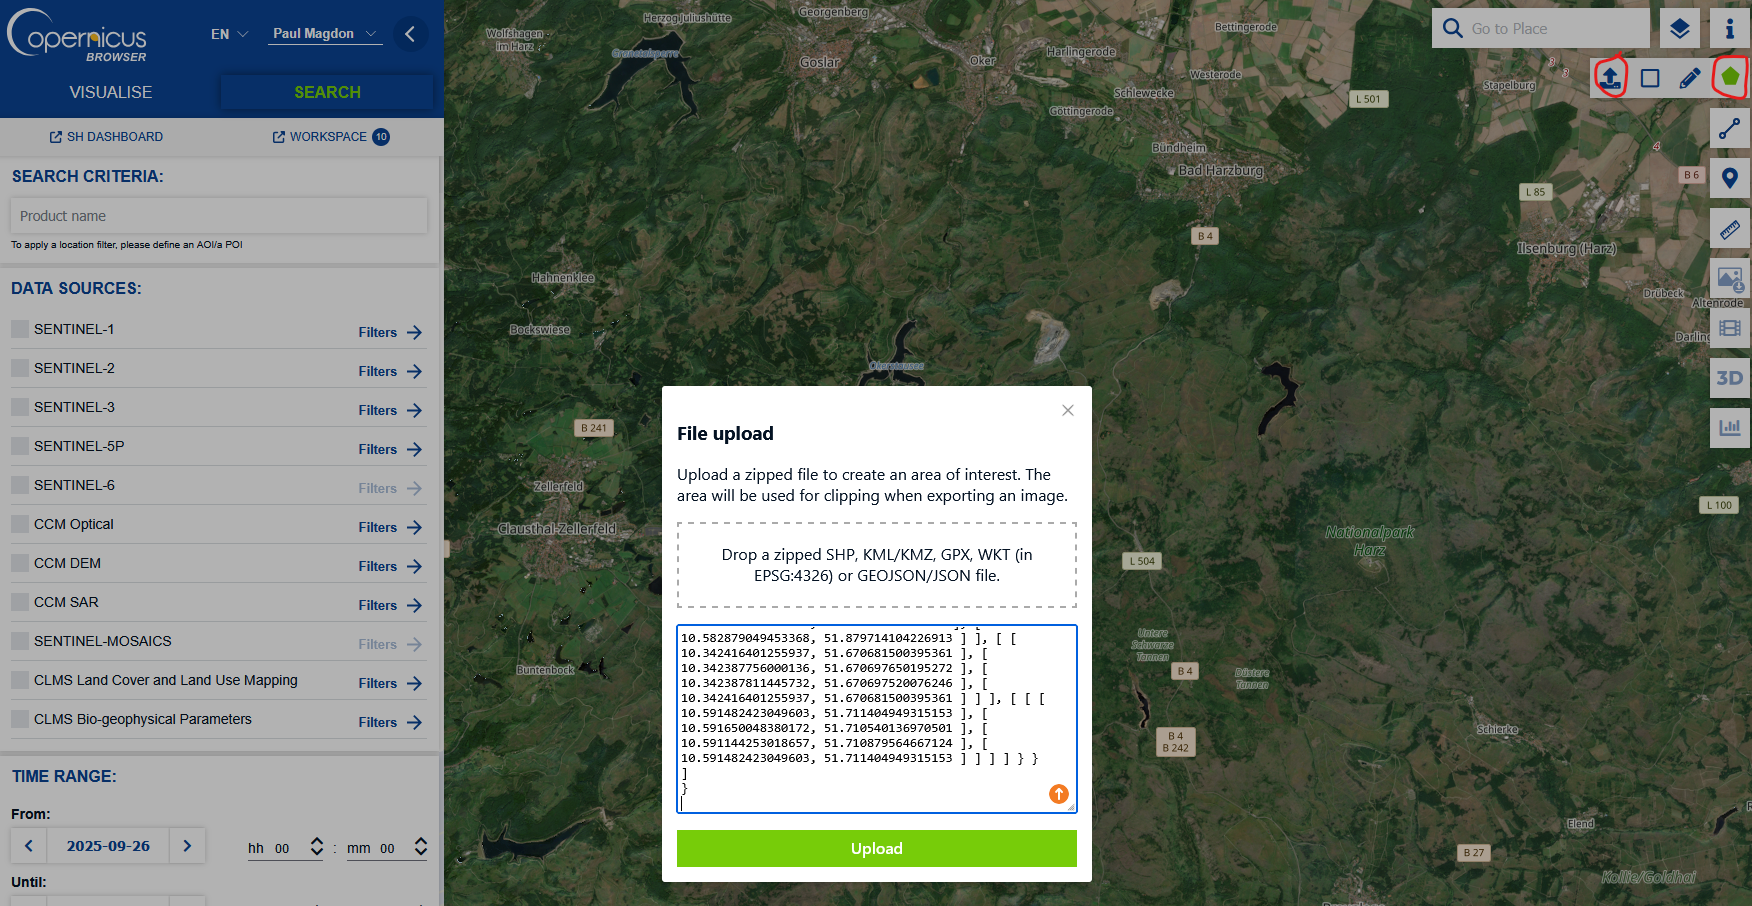
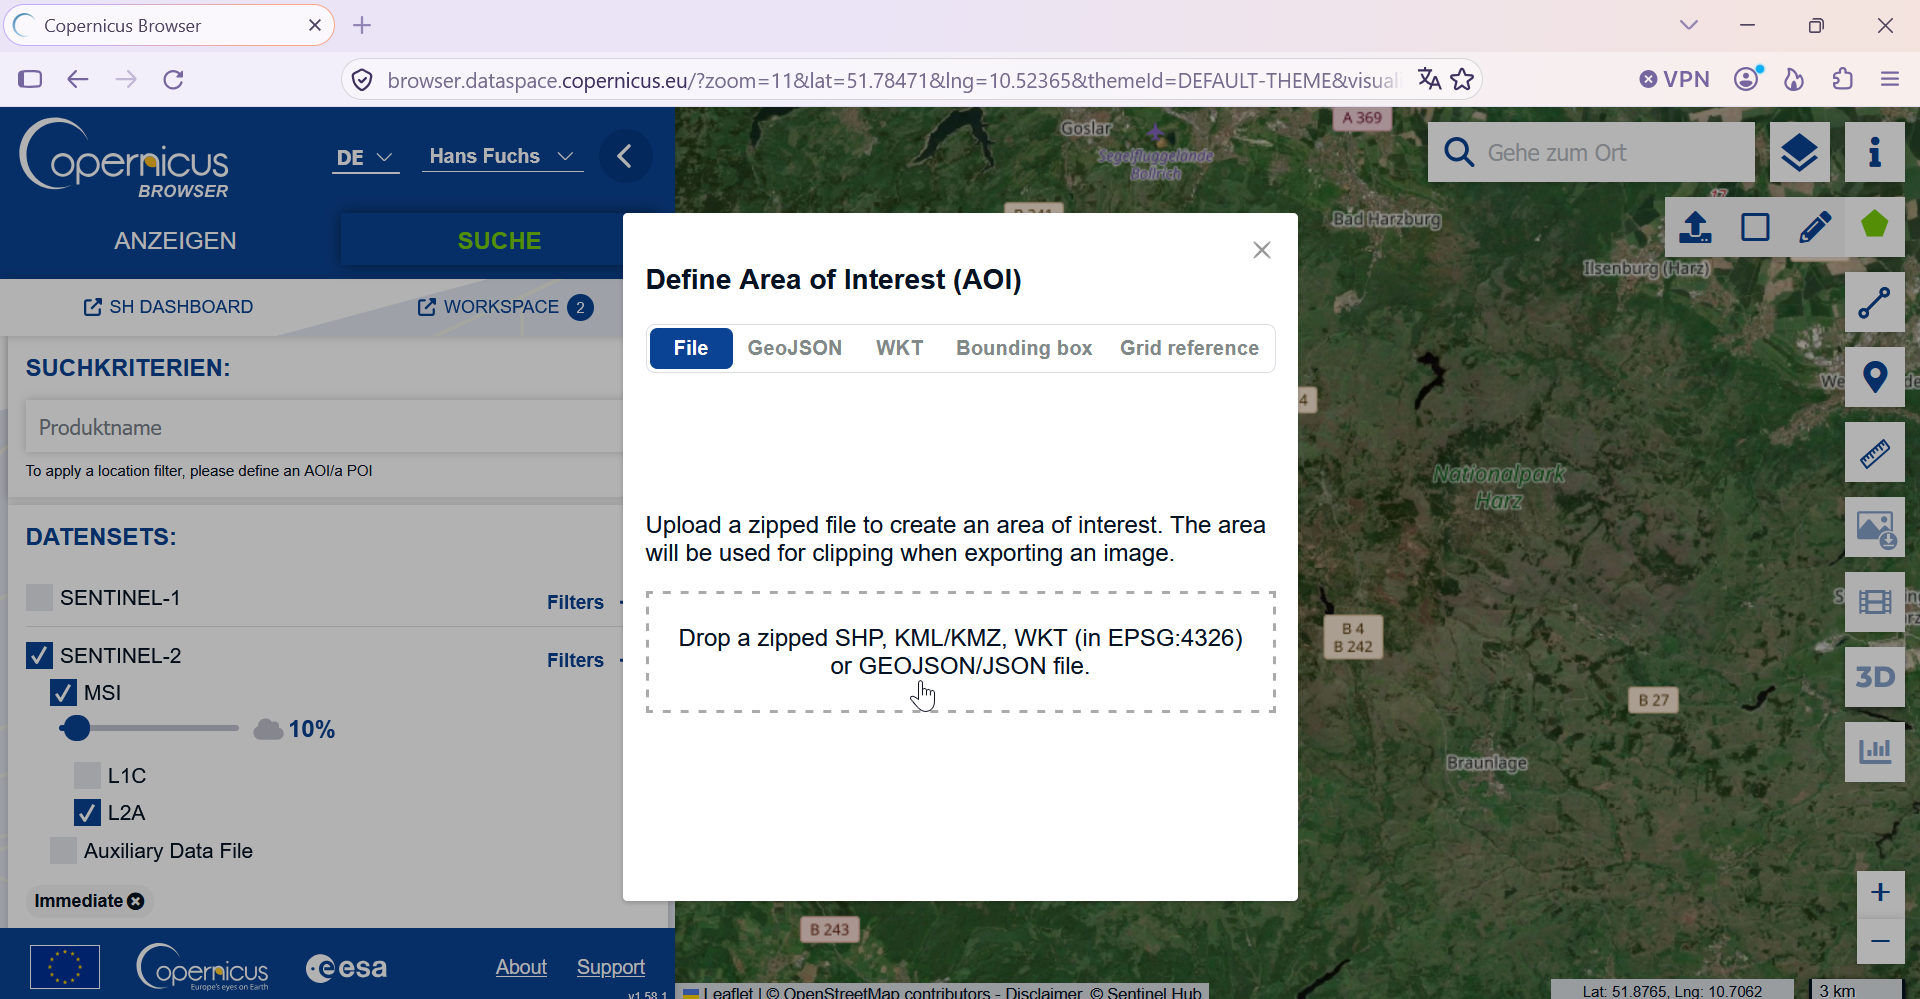
update figures uebung04

diff --git a/_book/uebung04.html b/_book/uebung04.html
@@ -290,22 +290,22 @@ Lizenz: Creative Commons BY-NC-SA 4.0 https://creativecommons.org/licenses/by-nc
 </section>
 <section id="aufgabe-01-recherche-und-download-eines-aktuellen-sentinel-2-satellitenbildes" class="level2" data-number="4.3">
 <h2 data-number="4.3" class="anchored" data-anchor-id="aufgabe-01-recherche-und-download-eines-aktuellen-sentinel-2-satellitenbildes"><span class="header-section-number">4.3</span> Aufgabe 01: Recherche und Download eines aktuellen Sentinel-2 Satellitenbildes</h2>
-<p>Die Europäische Raumfahrt Agentur (ESA) stellt das gesamte Archiv der Copernicus Daten kostenfrei als offenen Datensatz zur Verfügung. Zur Suche und für den Download solcher Daten wird das online Datenportal <a href="https://dataspace.copernicus.eu/" class="uri">https://dataspace.copernicus.eu/</a> betrieben. Für die Nutzung des Portals ist eine einmalige kostenfreie Registrierung notwendig um einen Nutzernamen und ein Passwort zu erhalten.</p>
-<p>Nach der erfolgreichen Registrierung kann ein Login auf der Homepage erfolgen. Für die Suche nach Daten (Explore Data) wird der Copernicus-Browser unter folgender URL angeboten:</p>
+<p>Die Europäische Raumfahrt Agentur (ESA) stellt das gesamte Archiv der Copernicus Daten kostenfrei als offenen Datensatz zur Verfügung. Zur Suche und für den Download solcher Daten wird das online Datenportal <a href="https://dataspace.copernicus.eu/" class="uri">https://dataspace.copernicus.eu/</a> betrieben. Für die Nutzung des Portals ist eine einmalige kostenfreie Registrierung notwendig, um einen Nutzernamen und ein Passwort zu erhalten.</p>
+<p>Nach der erfolgreichen Registrierung kann ein Login auf der Homepage erfolgen. Für die Suche nach Daten (“Explore Data”) wird der Copernicus-Browser unter folgender URL angeboten:</p>
 <p><a href="https://browser.dataspace.copernicus.eu" class="uri">https://browser.dataspace.copernicus.eu</a></p>
-<p>Der Browser bietet umfangreiche Möglichkeiten nach Geodatenprodukten zu suchen.</p>
+<p>Der Browser bietet umfangreiche Möglichkeiten, um nach Geodatenprodukten zu suchen. Ändern Sie die englische Spracheinstellung im Copernicus Browser indem sie oben links auf EN klicken und Deutsch aus der Liste auswählen.</p>
 <p><strong>Festlegen der Area of Interest (AOI)</strong></p>
-<p>Dazu können die Polygone od Multipolygone des Untersuchungsgebietes verwendet werden. Als Datenformat für die Definition der Geometrie akzeptiert der Copernicus-Browser das GeoJSON Format im Koordinatenreferenzsystem EPSG:4326 mit geographischen Längen- und Breitengraden. GeoJSON ist ein text-basiertes Format zum speichern von Vektordaten (siehe auch <a href="https://de.wikipedia.org/wiki/GeoJSON" class="uri">https://de.wikipedia.org/wiki/GeoJSON</a>). Für die Übung soll die Außengrenze des NP-Harz genutzt werden. Das entsprechende GeoJSON kann hier heruntergeladen werden:</p>
+<p>Hierfür können Polygone oder Multipolygone des Untersuchungsgebietes verwendet werden. Als Datenformat für die Definition der Geometrie akzeptiert der Copernicus-Browser das GeoJSON Format im Koordinatenreferenzsystem EPSG:4326 mit geographischen Längen- und Breitengraden. GeoJSON ist ein textbasiertes Format zum Speichern von Vektordaten (s. auch <a href="https://de.wikipedia.org/wiki/GeoJSON" class="uri">https://de.wikipedia.org/wiki/GeoJSON</a>). Für die Übung soll das Grenzpolygon des NP-Harz genutzt werden. Das entsprechende GeoJSON kann hier heruntergeladen werden:</p>
 <p><a href="https://cloud.hawk.de/index.php/s/2Zg8raN2qsHMyZf" class="uri">https://cloud.hawk.de/index.php/s/2Zg8raN2qsHMyZf</a></p>
-<p>Speichern sie diese Datei in ihrem Projektordner im Unterordner <em>“daten”</em>. Diese Datei kann sowohl mit QGIS als auch mit einem Texteditor (z.B. Editor, WordPad, Notepad++) geöffnet werden.</p>
-<p>Im Copernicus-Browser kann nun eine Area of Interest (AOI) mit diesen Informationen angelegt werden. Dazu rechts oben auf das Polygonsymbol klicken und den Upload Icon auswählen. Mit Drag &amp; Drop die GeoJSON Datei direkt von Dateimanager in den Browserbereich “Drop a file …” ziehen.</p>
+<p>Speichern Sie die Datei in Ihrem Projektordner im Unterordner <em>“daten”</em>. Sie kann sowohl mit QGIS als auch mit einem Texteditor (z.B. Editor, WordPad, Notepad++) geöffnet werden.</p>
+<p>Im Copernicus-Browser kann nun eine Area of Interest (AOI) angelegt werden. Dazu rechts oben auf das Polygonsymbol <img src="images/LE04_cb_poly_icon.png" class="img-fluid"> klicken und das Upload Icon <img src="images/LE04_cb_upload_file.png" class="img-fluid"> auswählen. Mit Drag &amp; Drop die GeoJSON Datei direkt von Dateimanager in den Browserbereich “Drop a file …” ziehen.</p>
 <div class="quarto-figure quarto-figure-center">
 <figure class="figure">
 <p><img src="images/LE04_dataspace_area_definition.png" class="img-fluid figure-img" width="719"></p>
-<figcaption>Upload der Gebietsgrenzen als GeoJSON in den Copernicus-Browser.</figcaption>
+<figcaption>Upload des Gebietsgrenzenpolygons als GeoJSON in den Copernicus-Browser.</figcaption>
 </figure>
 </div>
-<p>Nach dem erfolgreichen Upload werden die Außengrenzen des Nationalparks Harz im Browser angezeigt.</p>
+<p>Nach dem erfolgreichen Upload wird die Außengrenze des Nationalparks Harz im Browser angezeigt.</p>
 <div class="callout callout-style-default callout-caution callout-titled">
 <div class="callout-header d-flex align-content-center">
 <div class="callout-icon-container">
@@ -316,11 +316,15 @@ Vorsicht
 </div>
 </div>
 <div class="callout-body-container callout-body">
-<p>Wenn die Dateigröße der GeoJON Datei 10MB überschreitet, wird die Datei nicht akzeptiert. In diesem Fall können 1. die Geometrien vereinfacht werden mit <code>Vektor</code> -&gt; <code>Geometrie Tools</code> -&gt; <code>Vereinfachen</code> oder 2. eine Bounding Box berechnet werden mit <code>Verarbeitung</code> -&gt; <code>Werkzeugkiste</code> -&gt; <code>Layerwerkzeuge</code> -&gt; <code>Layerausdehnung extrahieren</code></p>
+<p>Wenn die Dateigröße der GeoJON Datei 10MB überschreitet, wird die Datei nicht akzeptiert. In diesem Fall können</p>
+<ol type="1">
+<li><p>die Geometrien vereinfacht werden mit <code>Vektor</code> -&gt; <code>Geometrie Tools</code> -&gt; <code>Vereinfachen</code> oder</p></li>
+<li><p>eine Bounding Box berechnet werden mit <code>Verarbeitung</code> -&gt; <code>Werkzeugkiste</code> -&gt; <code>Layerwerkzeuge</code> -&gt; <code>Layerausdehnung extrahieren</code></p></li>
+</ol>
 </div>
 </div>
 <p><strong>Auswahl und Download der gewünschten Produkte</strong></p>
-<p>Auf der linken Seite des Browsers können die gesuchten Produkte spezifiziert werden. Ändern Sie eventuell die Spracheinstellung im Copernicus Browser oben links vion EN auf DE. In der Lerneinheit arbeiten wir mit Produkten des Sentinel-2 Systems. Zusätzlich können Filter gesetzt werden.</p>
+<p>Auf der linken Seite des Browsers können die gesuchten Produkte spezifiziert werden. In der Lerneinheit arbeiten wir mit Produkten des Sentinel-2 Satelliten. Zusätzlich können Filter gesetzt werden.</p>
 <ul>
 <li>Klicken Sie auf “Suche”</li>
 </ul>
@@ -334,7 +338,7 @@ Vorsicht
 <ul>
 <li>Max. Cloud Cover = <strong>10%</strong></li>
 </ul>
-<p>Für die Übung suchen wir nach einer Aufnahme aus dem Juni 2025. Als Zeitraum, in welchem Bilder gesucht werden, setzen wir folgende Werte:</p>
+<p>Für die Übung suchen wir nach einer Aufnahme aus dem Juni 2025. Als Zeitraum, in welchem Bilder gesucht werden. Nach unten scrollen und im Abschnitt “Zeitraum:” setzen wir folgende Werte:</p>
 <ul>
 <li><p>Von: <em>2025-06-01</em></p></li>
 <li><p>Bis: <em>2025-06-30</em></p></li>
@@ -400,7 +404,7 @@ Vorsicht
 </div>
 <p>Fügen Sie die Bänder <strong>B02, B03, B04 und B08</strong> mit einer räumlichen Auflösung von 10m zu ihrem QGIS-Projekt hinzu.</p>
 <div style="border: 3px solid #ff8a0b; background-color: #ffffff; padding: 8px;">
-<p><strong>Ordnen sie den folgenden Bandnummern des Sentinel-2 MSI eine der Beschreibungen der Spektralbereiche zu: </strong>’Coastal aerosol, Blue, Green, Red, Red edge1, Red edge2, Red edge3, Narrow NIR, NIR, Water vapour, SWIR1, SWIR 2`**</p>
+<p>**Ordnen sie den folgenden Bandnummern des Sentinel-2 MSI eine der Beschreibungen der Spektralbereiche zu: <code>Coastal aerosol, Blue, Green, Red, Red edge1, Red edge2, Red edge3, Narrow NIR, NIR, Water vapour, SWIR1, SWIR 2</code></p>
 <p>B02 =</p>
 <p>B03 =</p>
 <p>B04 =</p>
@@ -424,28 +428,66 @@ Vorsicht
 </section>
 <section id="sec-zuschneiden" class="level2" data-number="4.6">
 <h2 data-number="4.6" class="anchored" data-anchor-id="sec-zuschneiden"><span class="header-section-number">4.6</span> Aufgabe 04: Zuschneiden des Satellitenbildmosaiks</h2>
-<p>Die beide originalen S2-Kacheln decken ca. 100 x 100km ab. Der Bereich ist also deutlich größer als der gesamte Harz. Um diesen Bereich zu verkleiner sollen die Satellitenbilder auf den Nationalpark zugeschnitten werden. Um die Grenzen trotzdem gut darstellen zu können, soll ein Puffer von 1000 m um die Außengrenzen des Parks gelegt werden.</p>
+<p>Die beiden originalen S2-Kacheln decken jeweils ca. 100 x 100km ab. Der Bereich ist also deutlich größer als der gesamte Harz. Um diesen Bereich zu verkleinern sollen die Satellitenbilder auf den Nationalpark zugeschnitten werden. Um die Grenzbereiche trotzdem gut darstellen zu können, soll ein Puffer mit der Breite von 1000m um die Außengrenze des Parks gelegt werden.</p>
 <p><strong>Außengrenze Puffern</strong></p>
-<p>Speichern Sie das GeoJSON der Nationalparkgrenze als Geopackage in Unterordner “daten” ab. Achten Sie darauf, dass das Koordinatenbezugssystem auf das metrische UTM Koordinatenreferenzsystem EPSG:25832 gestellt ist. Puffern Sie anschließend außen mit einer Breite von 1000 m.</p>
+<p>Speichern Sie das GeoJSON der Nationalparkgrenze als <strong>Geopackage</strong>, transformiert in ein metrisches UTM-Koordinatenreferenzsystem, im Unterordner “daten” ab. Achten Sie darauf, dass das Koordinatenbezugssystem auf das metrische UTM Koordinatenreferenzsystem <code>EPSG:25832</code> gestellt ist. Puffern Sie anschließend mit einer Breite von 1000 m.</p>
 <p><strong>Bild zuschneiden und maskieren</strong></p>
 <p>Zum Maskieren und zuschneiden nutzen Sie anschließend die Funktion:</p>
 <div style="border: 2px solid #afca0b; background-color: #fafafa; padding: 8px;">
 <p><code>Raster</code> →<code>Extraktion</code> → <code>Raster auf Layermaske zuschneiden</code></p>
 </div>
-<p>Speichern Sie das neue Raster unter dem Namen NP_Harz_2025_06_12 als *tif im Unterordner “daten” ab und laden Sie die Satellitenbildkarte als CIR-Falschfarbenbild in QGIS. Überlagern Sie das Bild mit den originalen Außengrenzen des Nationalparks.</p>
+<p>Speichern Sie das neue Raster unter dem Namen <em>NP_Harz_2025_06_12</em> als *tif im Unterordner “daten” ab und laden Sie die Satellitenbildkarte als CIR-Falschfarbenbild in QGIS. Überlagern Sie das Bild mit der Außengrenze des Nationalparks.</p>
 </section>
 <section id="aufgabe-05-import-von-sentinel-satellitenbilder-mit-der-enmap-box" class="level2" data-number="4.7">
 <h2 data-number="4.7" class="anchored" data-anchor-id="aufgabe-05-import-von-sentinel-satellitenbilder-mit-der-enmap-box"><span class="header-section-number">4.7</span> Aufgabe 05: Import von Sentinel Satellitenbilder mit der EnMAP-Box</h2>
 <p>Die EnMap-Box enthält die praktische Funktion</p>
 <p><code>Verarbeitung</code> -&gt; <code>Werkzeugkiste</code> -&gt; <code>Import data</code> -&gt; <code>Ìmport Sentinel-2 L2A product</code>,</p>
-<p>die Aufgabe 02 <a href="#sec-import-S2" class="quarto-xref"><span>Kapitel 4.4</span></a> vereinfacht. Es braucht nur die ZIP-Datei mit den originalen L2A-Daten ausgepackt werden. Im <code>.SAFE</code> Ordner befindet sich die Metadaten-Datei <em>MTD_MSIL2A.xml</em>, die ausgewählt oder direkt mit drag &amp; drop vom Dateimanager auf das <code>Import Sentinel-2 L2A product</code> Panel gezogen werden kann. Aus einer Liste lassen sich dann verschiedene Bänder auswählen, die in einem Mehrkanalbild zusammengeführt werden.</p>
+<p>die Aufgabe 02 <a href="#sec-import-S2" class="quarto-xref"><span>Kapitel 4.4</span></a> vereinfacht. Es braucht nur die ZIP-Datei mit den originalen L2A-Daten entpackt werden. Im <code>.SAFE</code> Ordner befindet sich die Metadaten-Datei <code>*MTD_MSIL2A.xml*</code>, die ausgewählt oder direkt mit drag &amp; drop vom Dateimanager auf das <code>Import Sentinel-2 L2A product</code> Panel gezogen werden kann. Aus einer Liste lassen sich dann verschiedene Bänder auswählen, die in einem Mehrkanalbild zusammengeführt werden.</p>
 <ul>
 <li><p>Wählen Sie aus der <strong>Band list</strong> die Bänder B2, B3, B4, B8.</p></li>
-<li><p>Als <strong>Output raster layer</strong> definieren Sie zum Speichern eine virtuelle VRT Datei.</p></li>
+<li><p>Als <strong>Output raster layer</strong> definieren Sie eine Datei zum Speichern als im Format VRT.</p></li>
+</ul>
+<div id="fig-import_s2" class="quarto-layout-panel">
+<figure class="quarto-float quarto-float-fig figure">
+<div aria-describedby="fig-import_s2-caption-0ceaefa1-69ba-4598-a22c-09a6ac19f8ca">
+<div class="quarto-layout-row">
+<div class="quarto-layout-cell-subref quarto-layout-cell" data-ref-parent="fig-import_s2" style="flex-basis: 55.6%;justify-content: flex-start;">
+<div id="fig-a" class="quarto-float quarto-figure quarto-figure-center anchored">
+<figure class="quarto-float quarto-subfloat-fig figure">
+<div aria-describedby="fig-a-caption-0ceaefa1-69ba-4598-a22c-09a6ac19f8ca">
+<img src="images/LE04_eb_import_s2a.png" id="fig-a" class="img-fluid figure-img" style="width:100.0%" data-ref-parent="fig-import_s2">
+</div>
+<figcaption class="quarto-float-caption-bottom quarto-subfloat-caption quarto-subfloat-fig" id="fig-a-caption-0ceaefa1-69ba-4598-a22c-09a6ac19f8ca">
+(a)
+</figcaption>
+</figure>
+</div>
+</div>
+<div class="quarto-layout-cell-subref quarto-layout-cell" data-ref-parent="fig-import_s2" style="flex-basis: 44.4%;justify-content: flex-start;">
+<div id="fig-b" class="quarto-float quarto-figure quarto-figure-center anchored">
+<figure class="quarto-float quarto-subfloat-fig figure">
+<div aria-describedby="fig-b-caption-0ceaefa1-69ba-4598-a22c-09a6ac19f8ca">
+<img src="images/LE04_eb_import_s2b.png" id="fig-b" class="img-fluid figure-img" style="width:80.0%" data-ref-parent="fig-import_s2">
+</div>
+<figcaption class="quarto-float-caption-bottom quarto-subfloat-caption quarto-subfloat-fig" id="fig-b-caption-0ceaefa1-69ba-4598-a22c-09a6ac19f8ca">
+(b)
+</figcaption>
+</figure>
+</div>
+</div>
+</div>
+</div>
+<figcaption class="quarto-float-caption-bottom quarto-float-caption quarto-float-fig" id="fig-import_s2-caption-0ceaefa1-69ba-4598-a22c-09a6ac19f8ca">
+Abbildung&nbsp;4.1: Import von Sentinel-2 Daten in der EnMAP-Box
+</figcaption>
+</figure>
+</div>
+<ul>
+<li>Als <strong>Output raster layer</strong> definieren Sie eine Datei zum Speichern als im Format <strong>VRT</strong>.</li>
 </ul>
 <p>Die ausgewählten Bänder werden mit der kleinsten Pixelgröße der ausgewählten Bänder resampled. Wellenlängenbereiche und Bandnamen werden als Metadaten gleich automatisch in die Ausgabe-Rasterdatei geschrieben.</p>
 <ul>
-<li>Stellen Sie das virtuelle Mehrkanalbild als CIR Falschfarbenbild dar.</li>
+<li>Sehen Sie sich das virtuelle Mehrkanalbild als CIR-Falschfarbendarstellung an.</li>
 </ul>
 </section>
 <section id="aufgabe-06-projekt-bereinigen-und-sichern" class="level2" data-number="4.8">

diff --git a/_book/uebung02.html b/_book/uebung02.html
@@ -351,7 +351,7 @@ Wichtig
 <p><strong>GDAL raster source:</strong> Wählen Sie die vrt Datei <code>bild_1_mehrkanal.vrt</code> aus.</p>
 <ul>
 <li><p><strong>Band names</strong>: <code>"rot", "grün", "blau", "nir"</code></p></li>
-<li><p><strong>Center wavelenght values</strong>: ’665, 560, 490, 850`</p></li>
+<li><p><strong>Center wavelenght values</strong>: 665, 560, 490, 850</p></li>
 </ul>
 <p>Auf <code>Starte</code> klicken.</p>
 <p><img src="images/LE02_edit_bandnames.png" class="img-fluid"></p>
